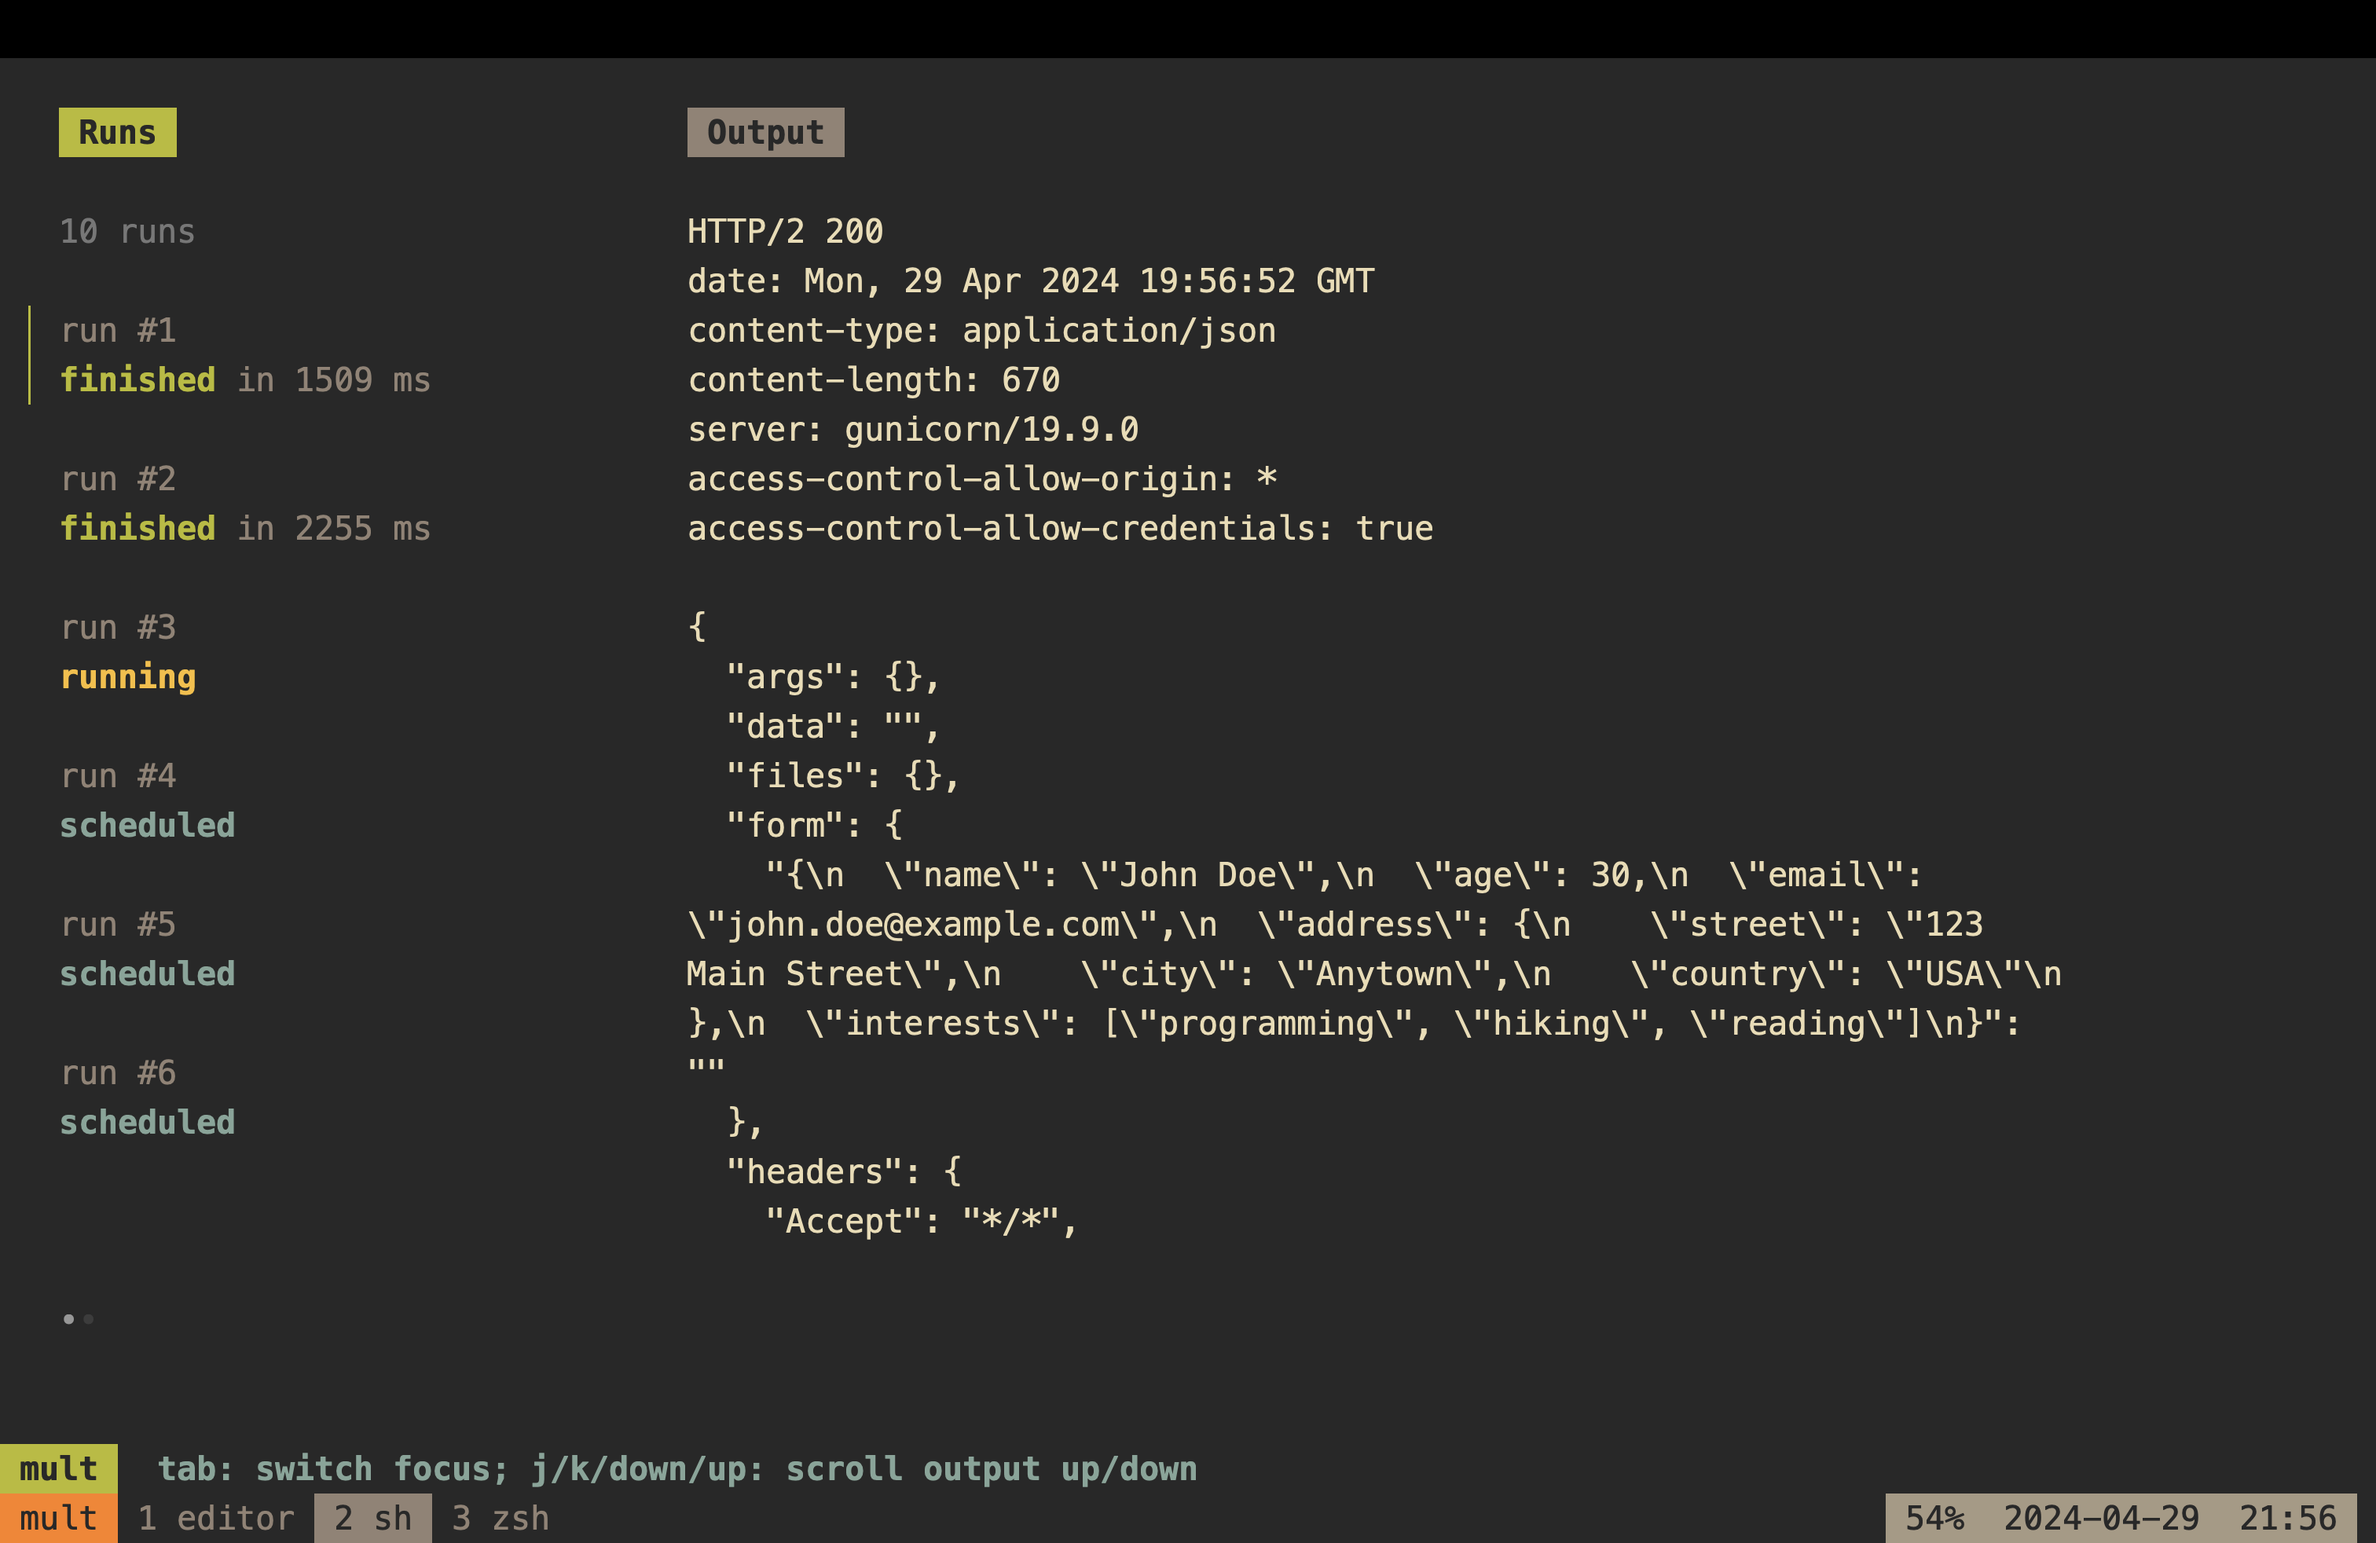
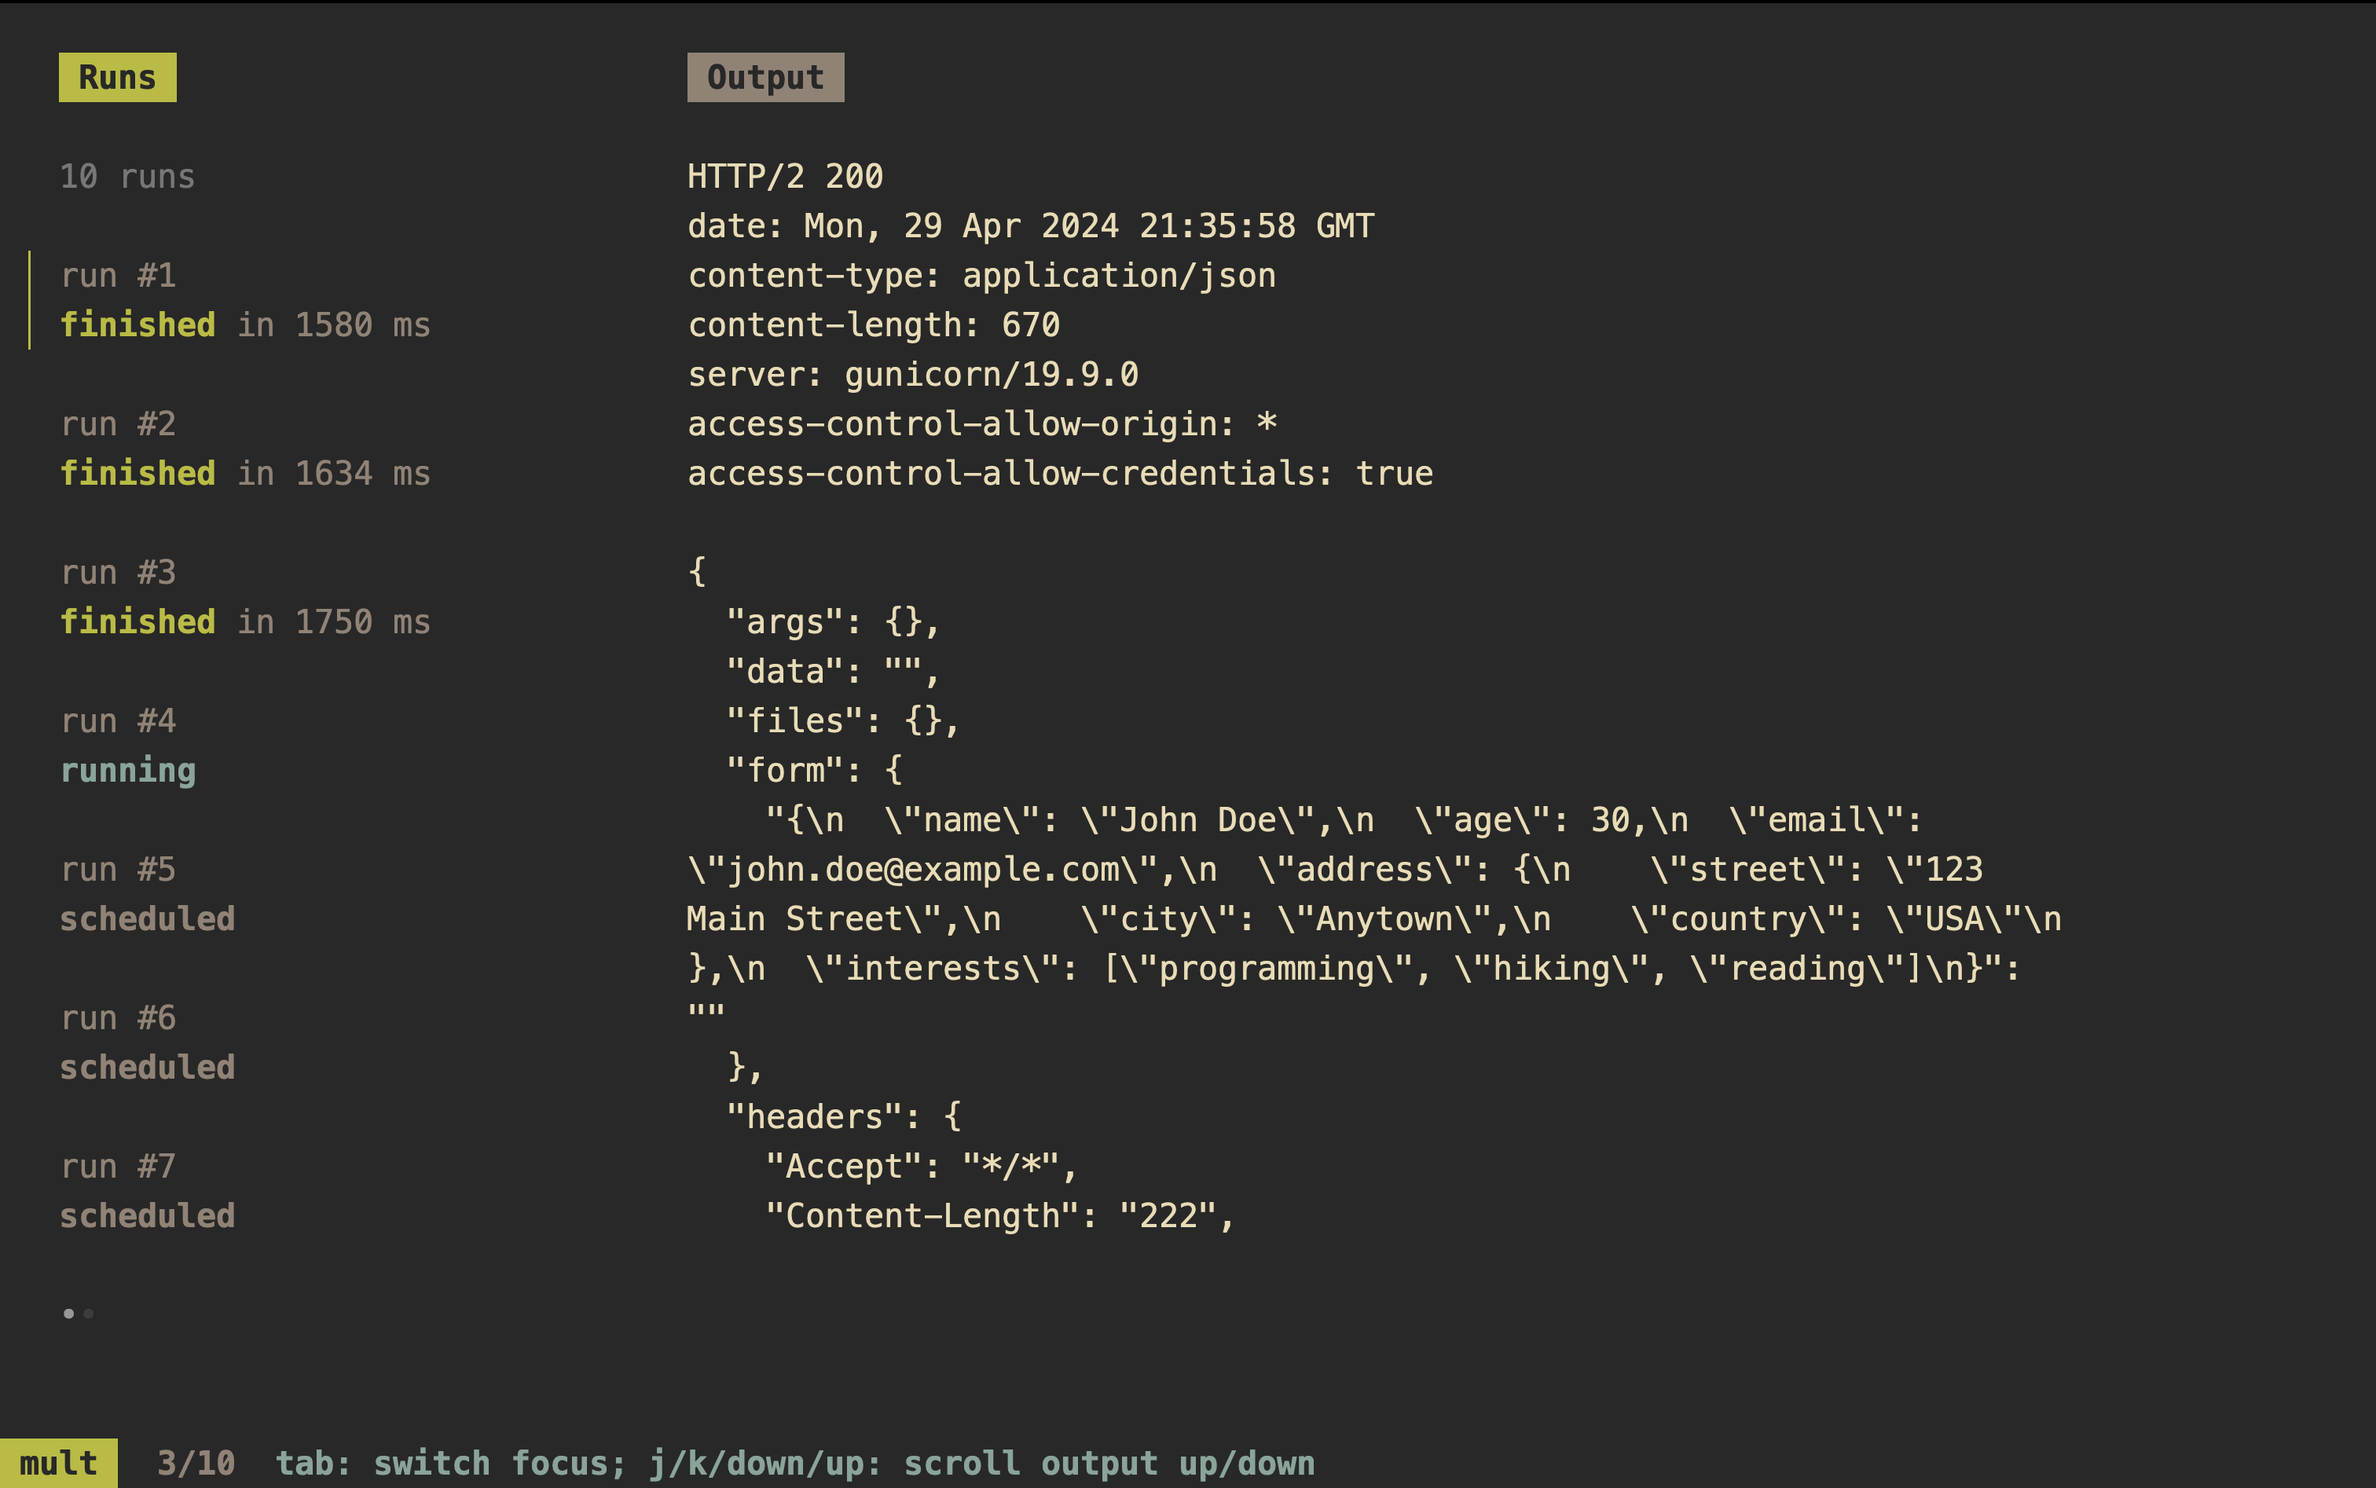
feat: support for delay between runs

diff --git a/internal/ui/update.go b/internal/ui/update.go
@@ -1,6 +1,8 @@
 package ui
 
 import (
+	"time"
+
 	"github.com/charmbracelet/bubbles/viewport"
 	tea "github.com/charmbracelet/bubbletea"
 	"github.com/charmbracelet/lipgloss"
@@ -15,7 +17,14 @@ func (m model) Update(msg tea.Msg) (tea.Model, tea.Cmd) {
 	case tea.KeyMsg:
 		switch msg.String() {
 		case "ctrl+c", "q":
-			return m, tea.Quit
+			switch m.activePane {
+			case outputPane:
+				m.activePane = cmdRunListPane
+				m.outputTitleStyle.Background(lipgloss.Color(inactivePaneColor))
+				m.runList.Styles.Title.Background(lipgloss.Color(activePaneColor))
+			default:
+				return m, tea.Quit
+			}
 		case "tab", "shift+tab":
 			if m.activePane == cmdRunListPane {
 				m.activePane = outputPane
@@ -47,6 +56,7 @@ func (m model) Update(msg tea.Msg) (tea.Model, tea.Cmd) {
 		}
 
 	case CmdRanMsg:
+		m.numRunsFinished++
 		i := msg.iterationNum
 		run, ok := m.runList.Items()[i].(command)
 		if ok {
@@ -58,6 +68,7 @@ func (m model) Update(msg tea.Msg) (tea.Model, tea.Cmd) {
 
 			if msg.err != nil {
 				m.resultsCache[i] = msg.err.Error()
+				m.numErrors++
 			} else {
 				m.resultsCache[i] = run.Output
 			}
@@ -76,15 +87,31 @@ func (m model) Update(msg tea.Msg) (tea.Model, tea.Cmd) {
 
 		if m.sequential {
 			if i < m.numRuns-1 {
-
-				nextRun, ok := m.runList.Items()[i+1].(command)
-				if ok {
-					nextRun.RunStatus = running
-					cmds = append(cmds, m.runList.SetItem(i+1, nextRun))
+				if m.delayMS == 0 {
+					nextRun, ok := m.runList.Items()[i+1].(command)
+					if ok {
+						nextRun.RunStatus = running
+						cmds = append(cmds, m.runList.SetItem(i+1, nextRun))
+						cmds = append(cmds, runCmd(m.cmd, i+1))
+					}
+				} else {
+					nextRun, ok := m.runList.Items()[i+1].(command)
+					if ok {
+						nextRun.RunStatus = waiting
+						cmds = append(cmds, m.runList.SetItem(i+1, nextRun))
+						cmds = append(cmds, runAfterDelay(time.Millisecond*time.Duration(m.delayMS), i+1))
+					}
 				}
-				cmds = append(cmds, runCmd(m.cmd, i+1))
 			}
 		}
+	case DelayTimeElapsedMsg:
+		run, ok := m.runList.Items()[msg.iterationNum].(command)
+		if ok {
+			run.RunStatus = running
+			cmds = append(cmds, m.runList.SetItem(msg.iterationNum, run))
+			cmds = append(cmds, runCmd(m.cmd, msg.iterationNum))
+		}
+
 	case CmdRunChosenMsg:
 		resultFromCache, ok := m.resultsCache[msg.runNum]
 		if ok {

diff --git a/internal/ui/styles.go b/internal/ui/styles.go
@@ -6,8 +6,9 @@ import (
 
 const (
 	defaultBackgroundColor = "#282828"
-	cmdScheduledColor      = "#83a598"
-	cmdRunningColor        = "#fabd2f"
+	cmdWaitingColor        = "#fabd2f"
+	cmdScheduledColor      = "#928374"
+	cmdRunningColor        = "#83a598"
 	cmdRanColor            = "#b8bb26"
 	cmdErrorColor          = "#fb4934"
 	cmdRunListColor        = "#b8bb26"
@@ -20,6 +21,7 @@ const (
 	helpViewTitleColor     = "#83a598"
 	helpHeaderColor        = "#83a598"
 	helpSectionColor       = "#fabd2f"
+	numErrorsColor         = "#fb4934"
 )
 
 var (
@@ -36,6 +38,9 @@ var (
 	cmdIndicatorStyle = lipgloss.NewStyle().
 				Bold(true)
 
+	cmdWaitingStyle = cmdIndicatorStyle.Copy().
+			Foreground(lipgloss.Color(cmdWaitingColor))
+
 	cmdScheduledStyle = cmdIndicatorStyle.Copy().
 				Foreground(lipgloss.Color(cmdScheduledColor))
 
@@ -48,9 +53,20 @@ var (
 	cmdErrorStyle = cmdIndicatorStyle.Copy().
 			Foreground(lipgloss.Color(cmdErrorColor))
 
-	helpMsgStyle = baseStyle.Copy().
+	helpMsgStyle = lipgloss.NewStyle().
+			PaddingLeft(2).
 			Bold(true).
 			Foreground(lipgloss.Color("#83a598"))
+
+	numRunsStyle = lipgloss.NewStyle().
+			PaddingLeft(2).
+			Bold(true).
+			Foreground(lipgloss.Color(cmdScheduledColor))
+
+	numErrorsStyle = lipgloss.NewStyle().
+			PaddingLeft(2).
+			Bold(true).
+			Foreground(lipgloss.Color(numErrorsColor))
 
 	inActivePaneHeaderStyle = baseStyle.Copy().
 				Align(lipgloss.Left).

diff --git a/internal/ui/view.go b/internal/ui/view.go
@@ -25,11 +25,20 @@ func (m model) View() string {
 
 	var helpMsg string
 	if m.showHelp {
-		helpMsg = " " + helpMsgStyle.Render("tab: switch focus; j/k/down/up: scroll output up/down")
+		helpMsg = helpMsgStyle.Render("tab: switch focus; j/k/down/up: scroll output up/down")
 	}
 
-	footerStr := fmt.Sprintf("%s%s",
+	numRunsMsg := numRunsStyle.Render(fmt.Sprintf("%d/%d", m.numRunsFinished, m.numRuns))
+
+	var numErrorsMsg string
+	if m.numErrors > 0 {
+		numErrorsMsg = numErrorsStyle.Render(fmt.Sprintf("%d errors", m.numErrors))
+	}
+
+	footerStr := fmt.Sprintf("%s%s%s%s",
 		modeStyle.Render("mult"),
+		numRunsMsg,
+		numErrorsMsg,
 		helpMsg,
 	)
 	footer = footerStyle.Render(footerStr)

diff --git a/cmd/root.go b/cmd/root.go
@@ -16,9 +16,14 @@ func die(msg string, args ...any) {
 var (
 	numRuns    = flag.Int("n", 5, "number of times to run the command")
 	sequential = flag.Bool("s", false, "whether to invoke the command sequentially")
+	delayMS    = flag.Int("delay-ms", 0, "time to sleep for between runs")
 )
 
 func Execute() {
+	flag.Usage = func() {
+		fmt.Fprintf(os.Stderr, "%s\nFlags:\n", helpText)
+		flag.PrintDefaults()
+	}
 	flag.Parse()
 
 	cmdToRun := flag.Args()
@@ -28,5 +33,5 @@ func Execute() {
 	if *numRuns <= 1 {
 		die("num-runs needs to be atleast 2")
 	}
-	ui.RenderUI(cmdToRun, *numRuns, *sequential)
+	ui.RenderUI(cmdToRun, *numRuns, *sequential, *delayMS)
 }

diff --git a/internal/ui/ui.go b/internal/ui/ui.go
@@ -8,7 +8,7 @@ import (
 	tea "github.com/charmbracelet/bubbletea"
 )
 
-func RenderUI(cmd []string, numRuns int, sequential bool) {
+func RenderUI(cmd []string, numRuns int, sequential bool, delayMS int) {
 
 	if len(os.Getenv("DEBUG")) > 0 {
 		f, err := tea.LogToFile("debug.log", "debug")
@@ -18,7 +18,7 @@ func RenderUI(cmd []string, numRuns int, sequential bool) {
 		}
 		defer f.Close()
 	}
-	p := tea.NewProgram(InitialModel(cmd, numRuns, sequential), tea.WithAltScreen())
+	p := tea.NewProgram(InitialModel(cmd, numRuns, sequential, delayMS), tea.WithAltScreen())
 	if _, err := p.Run(); err != nil {
 		log.Fatalf("Something went wrong %s", err)
 	}

diff --git a/internal/ui/initial.go b/internal/ui/initial.go
@@ -5,7 +5,7 @@ import (
 	"github.com/charmbracelet/lipgloss"
 )
 
-func InitialModel(cmd []string, numRuns int, sequential bool) model {
+func InitialModel(cmd []string, numRuns int, sequential bool, delayMS int) model {
 
 	stackItems := make([]list.Item, 0)
 
@@ -54,6 +54,7 @@ func InitialModel(cmd []string, numRuns int, sequential bool) model {
 		showHelp:         true,
 		firstFetch:       true,
 		sequential:       sequential,
+		delayMS:          delayMS,
 	}
 
 	m.runList.Title = "Runs"

diff --git a/internal/ui/types.go b/internal/ui/types.go
@@ -6,6 +6,7 @@ type runStatus uint
 
 const (
 	running runStatus = iota
+	waiting
 	scheduled
 	finished
 )
@@ -25,6 +26,8 @@ func (c command) Title() string {
 func (c command) Description() string {
 	var runIndicator string
 	switch c.RunStatus {
+	case waiting:
+		runIndicator = cmdWaitingStyle.Render("waiting")
 	case scheduled:
 		runIndicator = cmdScheduledStyle.Render("scheduled")
 	case running:

diff --git a/internal/ui/cmds.go b/internal/ui/cmds.go
@@ -19,6 +19,12 @@ func hideHelp(interval time.Duration) tea.Cmd {
 	})
 }
 
+func runAfterDelay(interval time.Duration, iterationNum int) tea.Cmd {
+	return tea.Tick(interval, func(time.Time) tea.Msg {
+		return DelayTimeElapsedMsg{iterationNum}
+	})
+}
+
 func runCmd(cmd []string, iterationNum int) tea.Cmd {
 	return func() tea.Msg {
 		var c *exec.Cmd

diff --git a/internal/ui/model.go b/internal/ui/model.go
@@ -33,6 +33,9 @@ type model struct {
 	lastPane         Pane
 	firstFetch       bool
 	sequential       bool
+	delayMS          int
+	numRunsFinished  int
+	numErrors        int
 }
 
 func (m model) Init() tea.Cmd {

diff --git a/internal/ui/msgs.go b/internal/ui/msgs.go
@@ -12,3 +12,7 @@ type CmdRanMsg struct {
 	tookMS       int64
 	err          error
 }
+
+type DelayTimeElapsedMsg struct {
+	iterationNum int
+}

diff --git a/cmd/help.go b/cmd/help.go
@@ -1,0 +1,8 @@
+package cmd
+
+var (
+	helpText = `Run a command multiple times and glance at the outputs.
+
+Usage: mult [flags]
+`
+)

diff --git a/README.md b/README.md
@@ -5,6 +5,10 @@
 
 Run a command multiple times and glance at the outputs.
 
+```bash
+mult command --you=want to run
+```
+
 <p align="center">
   <img src="./assets/mult.png?raw=true" alt="Usage" />
 </p>
